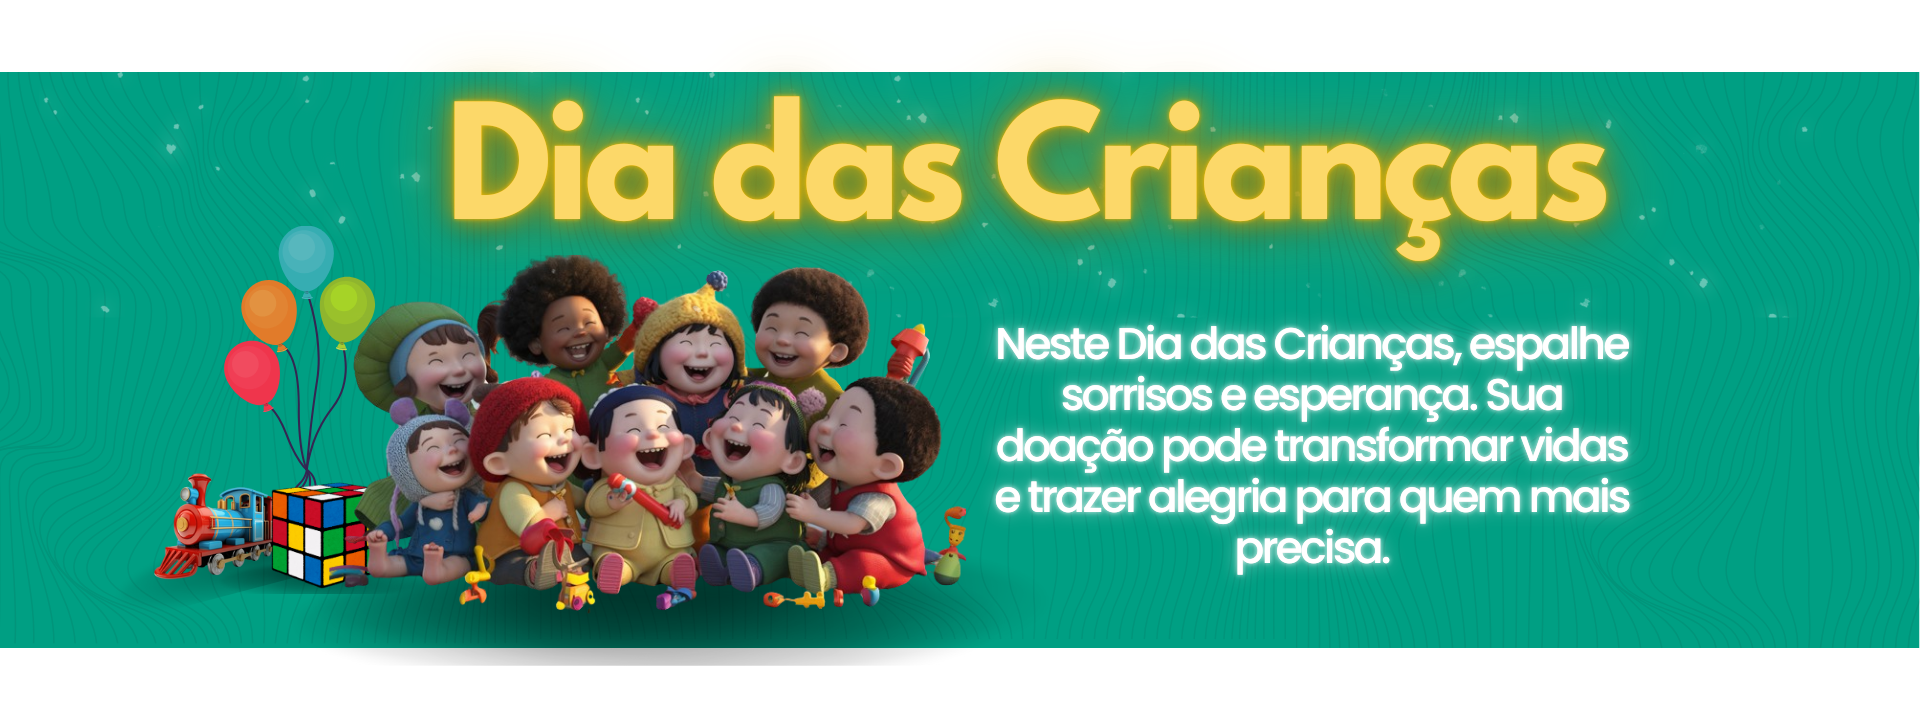
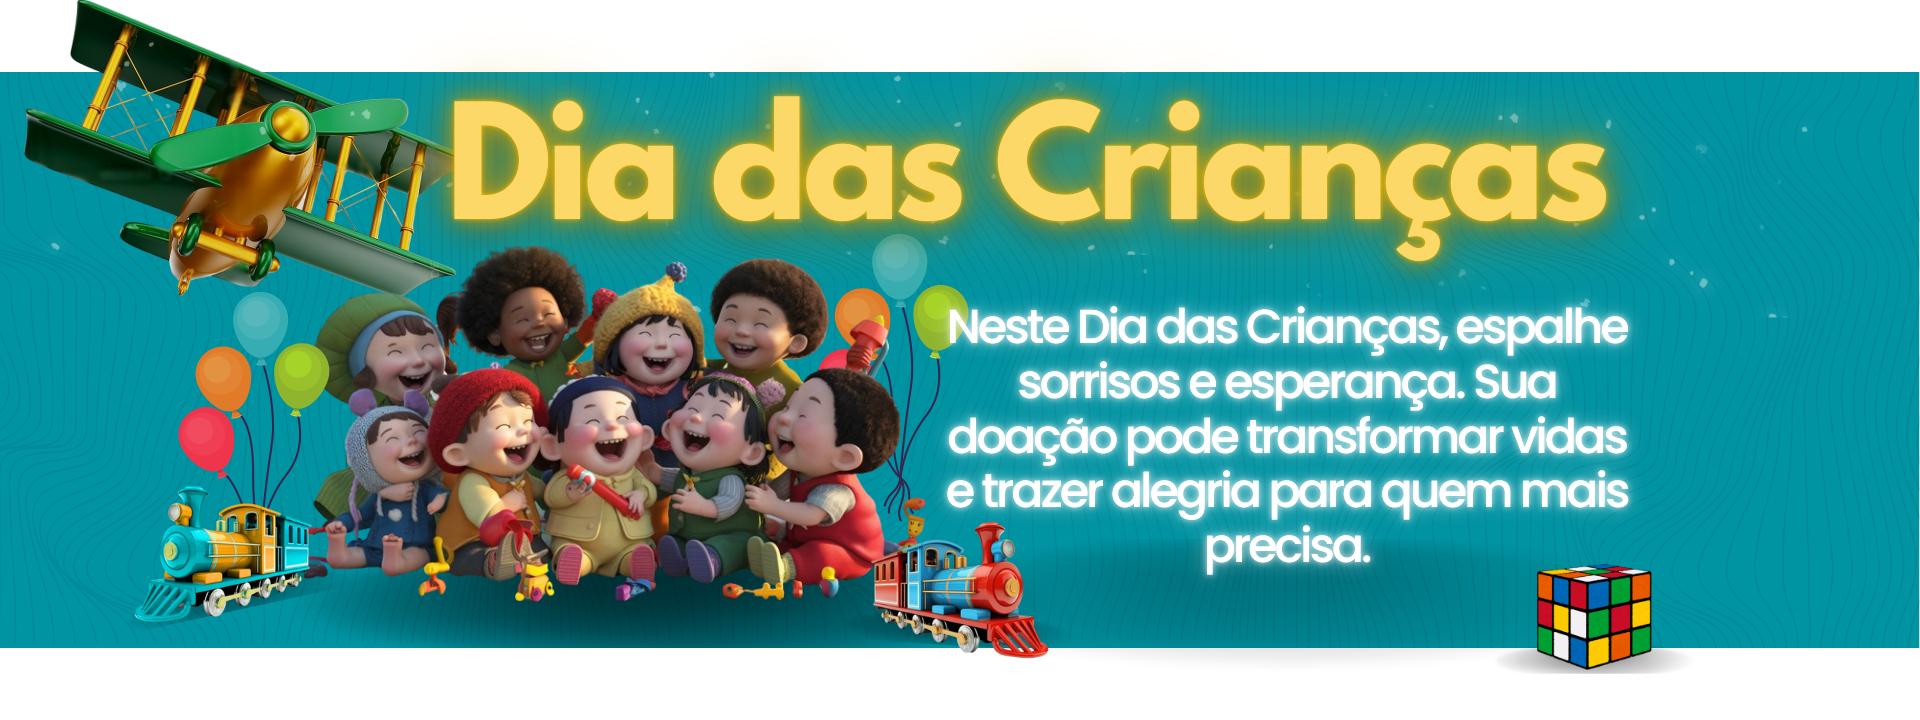
dia das criancas

diff --git a/index.html b/index.html
@@ -93,7 +93,7 @@
     <section class="natal">
         <div class="imagem">
             <a href="pages/contribua.html">
-                <img src="assets/diadascriancas3.png" class="main-img" alt="">
+                <img src="assets/diadascriancas.png" class="main-img" alt="">
             </a>
             <!-- <img src="assets/balao.png" class="arvore1 left" alt="Árvore Esquerda"> -->
             <img src="assets/balao.png" class="arvore1 right" alt="Árvore Direita">
